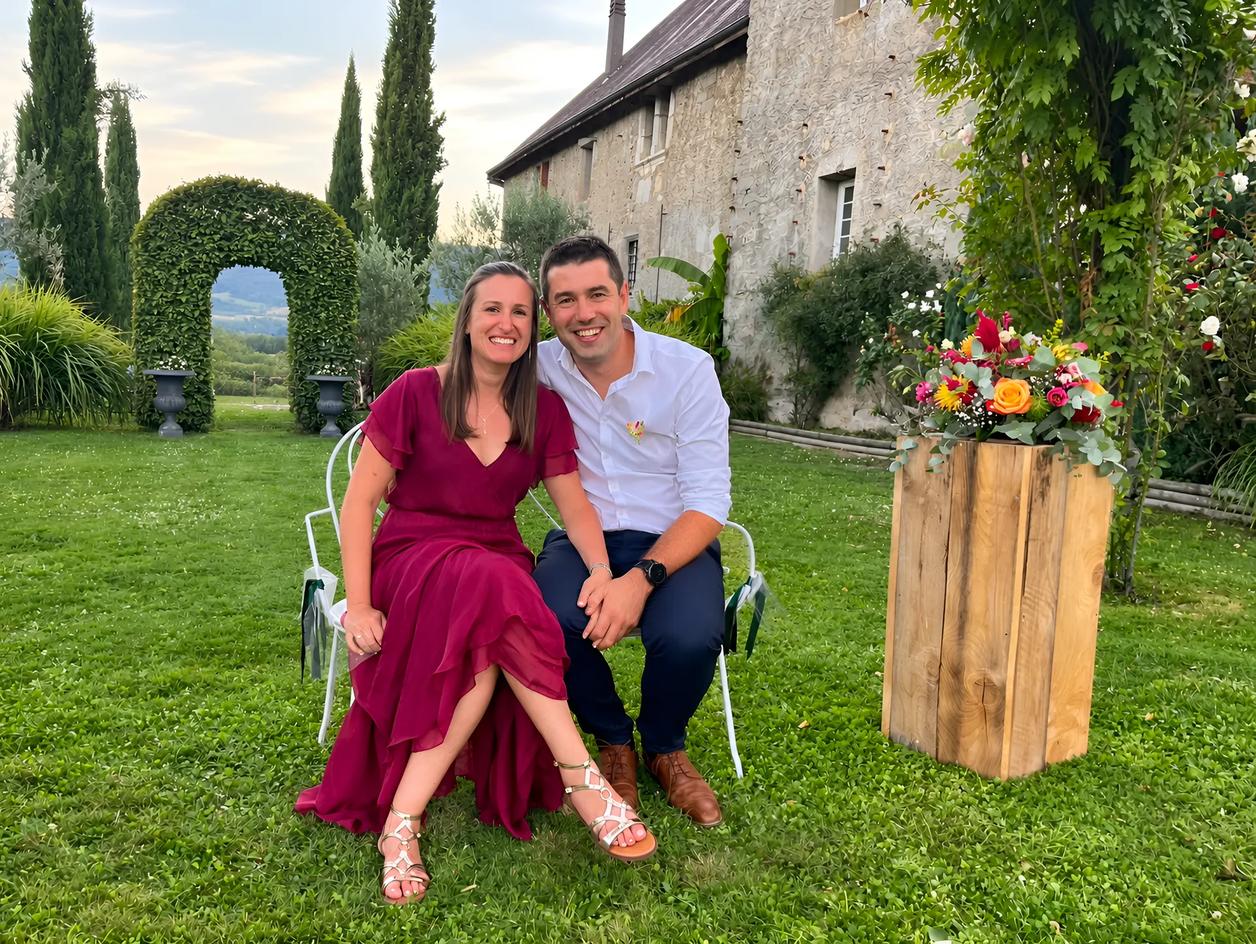
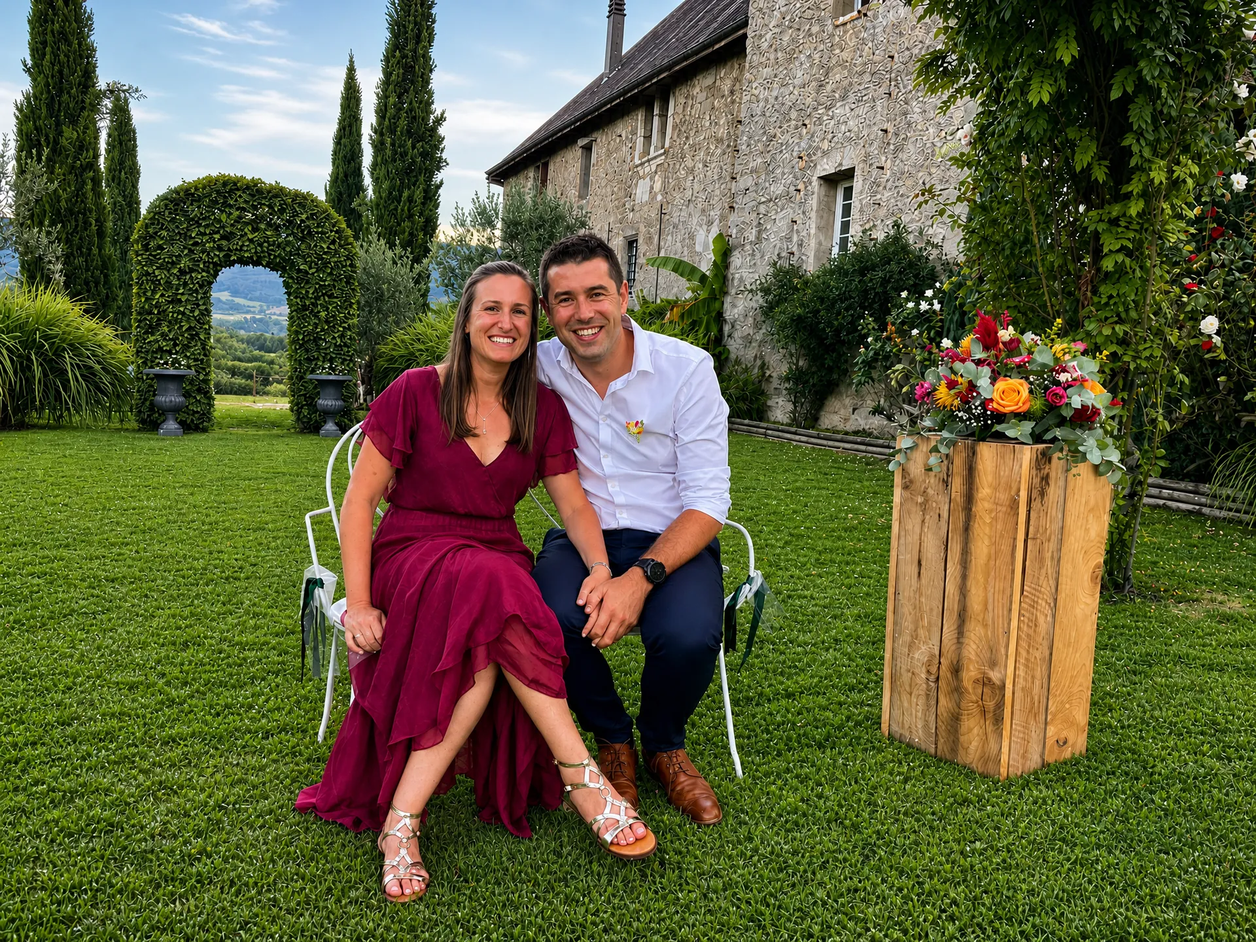
Photo du jardin : version V2 fournie, plus nette (2048 px)
Tailles 640 à 2048 px régénérées depuis la V2 (pas d'agrandissement
artificiel au-delà de l'original) ; la version 2560 px est retirée.
Cadrage, point focal et cœur vérifiés.

Claude-Session: https://claude.ai/code/session_01HAWTPvL4dY7Bnksh8r4g53

diff --git a/index.html b/index.html
@@ -206,8 +206,8 @@
       <div class="reveal-photo__sticky">
         <div class="reveal-photo__frame" data-cursor-heart data-heart-focus="0.433 0.325" data-heart-reach="0.4">
           <img src="assets/img/photos/couple-jardin-1024.webp"
-               srcset="assets/img/photos/couple-jardin-640.webp 640w, assets/img/photos/couple-jardin-1024.webp 1024w, assets/img/photos/couple-jardin-1446.webp 1446w, assets/img/photos/couple-jardin-1920.webp 1920w, assets/img/photos/couple-jardin-2560.webp 2560w"
-               sizes="(orientation: portrait) 166vh, 125vw" width="1024" height="770" loading="lazy" decoding="async"
+               srcset="assets/img/photos/couple-jardin-640.webp 640w, assets/img/photos/couple-jardin-1024.webp 1024w, assets/img/photos/couple-jardin-1446.webp 1446w, assets/img/photos/couple-jardin-1920.webp 1920w, assets/img/photos/couple-jardin-2048.webp 2048w"
+               sizes="(orientation: portrait) 166vh, 125vw" width="1024" height="768" loading="lazy" decoding="async"
                alt="Clémentine et Romain assis côte à côte dans un jardin fleuri, souriants">
         </div>
         <div class="reveal-photo__scrim" aria-hidden="true"></div>
